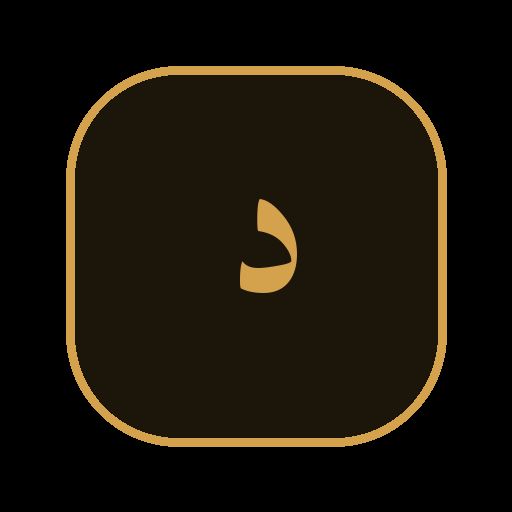
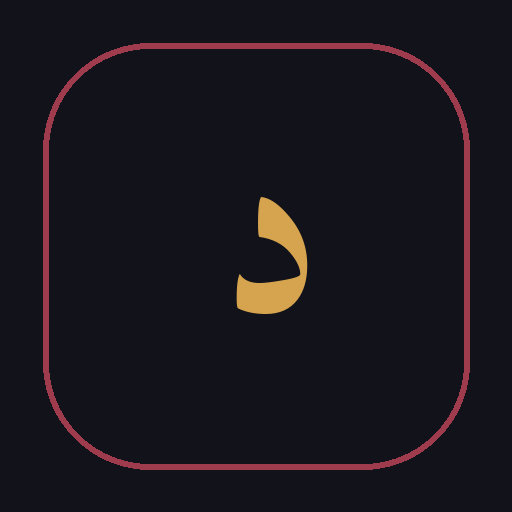
fix(darbar): PIN screen → locked shell (mirror DIWAN App Shells)
Darbar's PIN drifted from the now-locked shell. Rebuilt 1:1:
- app-icon tile 72×72 r16 #1c1c26 + garnet(#9e3b4d @user%) border, gold د glyph
- chamber name Cormorant Garamond Bold 56pt WHITE (was 30pt system gold-ish)
- tagline 'The full retinue serving the realm' Cormorant Italic gold (was absent)
- 4 PIN dots gold-outline@60%, fill garnet on entry (was a text input)
- native 3×4 keypad 68px circles, Inter 28pt, row4 _·0·⌫; AUTO-SUBMIT on 4th digit
- heritage 'HN Hotels · since 1918' moved to footer Cormorant Italic gold@50%
- DROPPED: 'enter your PIN to enter the court' line + the gold Enter button
- frame base #020205 + radial vignette + gold@18% inset border
- regenerated home-screen icon to match the tile (dark + garnet border + gold د)
Per-chamber values (Figma DIWAN master is currently empty): glyph د, accent
garnet #9e3b4d, tagline from the chamber doctrine line.

diff --git a/ops/darbar/index.html b/ops/darbar/index.html
@@ -14,7 +14,7 @@
   <link rel="icon" type="image/png" sizes="192x192" href="/ops/darbar/icon-192.png">
   <link rel="preconnect" href="https://fonts.googleapis.com">
   <link rel="preconnect" href="https://fonts.gstatic.com" crossorigin>
-  <link href="https://fonts.googleapis.com/css2?family=Cormorant+Garamond:ital,wght@1,600;1,700&display=swap" rel="stylesheet">
+  <link href="https://fonts.googleapis.com/css2?family=Cormorant+Garamond:ital,wght@0,600;0,700;1,500;1,600&family=Inter:wght@400;500;600&display=swap" rel="stylesheet">
   <style>
     :root{
       --bg:#000; --e1:#13131a; --e2:#1b1b24; --e3:#24242f;
@@ -26,6 +26,7 @@
       --yellow:#fbbf24; --yellow-soft:rgba(251,191,36,.15);
       --red:#ff5c5c; --red-soft:rgba(255,92,92,.14);
       --purple:#a78bfa; --purple-soft:rgba(167,139,250,.15);
+      --darbar:#9e3b4d; --darbar-bd:rgba(158,59,77,.5);  /* Darbar per-chamber court hue */
       --safe-top:env(safe-area-inset-top,0px); --safe-bot:env(safe-area-inset-bottom,0px);
       --tabh:74px; --navh:46px; --r:13px;
       --ease:cubic-bezier(.22,.61,.36,1); --spring:cubic-bezier(.34,1.56,.64,1);
@@ -43,22 +44,45 @@
     .num{font-variant-numeric:tabular-nums}
     .hide{display:none!important}
 
-    /* PIN gate */
-    .gate{position:fixed;inset:0;background:radial-gradient(120% 80% at 50% 0%,#1a160c 0%,#000 60%);
-      display:flex;flex-direction:column;align-items:center;justify-content:center;padding:24px;z-index:80}
-    .gate .crest{width:64px;height:64px;border-radius:18px;display:grid;place-items:center;
-      background:var(--gold-soft);border:1px solid var(--gold-bd);color:var(--gold);
-      font-family:'Cormorant Garamond',serif;font-style:italic;font-weight:700;font-size:38px;margin-bottom:18px}
-    .gate h1{font-size:30px;font-weight:800}
-    .gate .heritage{font-family:'Cormorant Garamond',serif;font-style:italic;color:var(--gold);font-size:16px;margin-top:4px}
-    .gate .help{color:var(--mute);font-size:13px;margin:14px 0 16px}
-    .pin-in{width:200px;text-align:center;font-size:26px;letter-spacing:14px;padding:14px;
-      background:var(--e2);border:1px solid var(--line);border-radius:14px;color:var(--text)}
-    .pin-in:focus{outline:none;border-color:var(--gold-bd)}
-    .pin-go{margin-top:14px;width:200px;padding:14px;border-radius:14px;background:var(--gold);
-      color:#1a1206;font-weight:700;font-size:16px;transition:transform .1s var(--ease)}
-    .pin-go:active{transform:scale(.97)}
-    .pin-err{color:var(--red);font-size:13px;margin-top:10px;height:16px}
+    /* ── PIN gate — LOCKED SHELL (mirrors DIWAN "App Shells — Locked") ── */
+    .gate{position:fixed;inset:0;z-index:80;
+      padding:calc(var(--safe-top) + 24px) 24px calc(var(--safe-bot) + 16px);
+      background:radial-gradient(120% 90% at 50% 38%, #0e0e16 0%, #020205 78%);
+      box-shadow:inset 0 0 0 1px rgba(212,162,76,.18);
+      display:flex;flex-direction:column;align-items:center;justify-content:center}
+    .gate-inner{display:flex;flex-direction:column;align-items:center;width:100%;max-width:300px;margin:auto}
+    /* 1 — app-icon tile (the name IS the logo) */
+    .pin-icon{width:72px;height:72px;border-radius:16px;display:grid;place-items:center;
+      background:#1c1c26;border:1px solid var(--darbar-bd);color:var(--gold);
+      font-family:'Cormorant Garamond',serif;font-weight:700;font-size:42px;
+      box-shadow:0 2px 12px rgba(0,0,0,.55)}
+    /* 2 — chamber name, Cormorant Bold, WHITE (gold is accent only) */
+    .pin-name{font-family:'Cormorant Garamond',serif;font-weight:700;font-style:normal;
+      font-size:56px;line-height:1;color:#f8f8fa;margin-top:18px;
+      text-shadow:0 1px 0 rgba(0,0,0,.6),0 2px 8px rgba(0,0,0,.45)}
+    /* 3 — tagline from the chamber doctrine, Cormorant Italic, gold */
+    .pin-tag{font-family:'Cormorant Garamond',serif;font-style:italic;font-weight:500;
+      font-size:15px;color:var(--gold);margin-top:7px;letter-spacing:.01em;text-align:center}
+    /* 4 — 4 PIN dots, gold outline @60%, fill chamber-accent on entry */
+    .pin-dots{display:flex;gap:16px;margin-top:34px}
+    .pin-dots span{width:12px;height:12px;border-radius:50%;background:transparent;
+      border:1.5px solid rgba(212,162,76,.6);transition:all .15s var(--ease)}
+    .pin-dots span.on{background:var(--darbar);border-color:var(--darbar);transform:scale(1.08)}
+    .pin-err{color:var(--red);font-size:12.5px;height:15px;margin-top:13px;text-align:center}
+    /* 5 — native 3×4 keypad, 68px circles, white digits 28pt Inter, row4: _ 0 ⌫ */
+    .keypad{display:grid;grid-template-columns:repeat(3,68px);gap:20px;margin-top:6px;justify-content:center}
+    .keypad button{width:68px;height:68px;border-radius:50%;background:#1c1c26;color:#f8f8fa;
+      font-family:'Inter',sans-serif;font-weight:400;font-size:28px;display:grid;place-items:center;
+      transition:transform .08s var(--ease),background .15s}
+    .keypad button:active{transform:scale(.92);background:#24242f}
+    .keypad button.del{font-size:24px;color:var(--dim)}
+    .keypad .sp{visibility:hidden}
+    /* 7 — footer heritage line, Cormorant Italic, gold @50%, bottom-safe */
+    .pin-foot{position:absolute;left:0;right:0;bottom:calc(var(--safe-bot) + 14px);text-align:center;
+      font-family:'Cormorant Garamond',serif;font-style:italic;font-size:11px;color:rgba(212,162,76,.5)}
+    .gate.shake .gate-inner{animation:shake .42s}
+    @keyframes shake{10%,90%{transform:translateX(-2px)}20%,80%{transform:translateX(4px)}
+      30%,50%,70%{transform:translateX(-7px)}40%,60%{transform:translateX(7px)}}
 
     /* App shell */
     #app{position:fixed;inset:0;display:flex;flex-direction:column;background:var(--bg)}
@@ -181,13 +205,20 @@
 
 <!-- PIN GATE -->
 <section id="gate" class="gate">
-  <div class="crest">د</div>
-  <h1>Darbar</h1>
-  <div class="heritage">HN Hotels · since 1918</div>
-  <div class="help">Enter your PIN to enter the court</div>
-  <input id="pin" class="pin-in num" type="tel" maxlength="4" inputmode="numeric" autocomplete="one-time-code" placeholder="••••">
-  <button id="pinGo" class="pin-go">Enter</button>
-  <div id="pinErr" class="pin-err"></div>
+  <div class="gate-inner">
+    <div class="pin-icon">د</div>
+    <h1 class="pin-name">Darbar</h1>
+    <div class="pin-tag">The full retinue serving the realm</div>
+    <div class="pin-dots" id="pinDots"><span></span><span></span><span></span><span></span></div>
+    <div class="pin-err" id="pinErr"></div>
+    <div class="keypad" id="keypad">
+      <button data-k="1">1</button><button data-k="2">2</button><button data-k="3">3</button>
+      <button data-k="4">4</button><button data-k="5">5</button><button data-k="6">6</button>
+      <button data-k="7">7</button><button data-k="8">8</button><button data-k="9">9</button>
+      <span class="sp"></span><button data-k="0">0</button><button data-k="del" class="del" aria-label="delete">⌫</button>
+    </div>
+  </div>
+  <div class="pin-foot">HN Hotels · since 1918</div>
 </section>
 
 <!-- APP -->

diff --git a/ops/darbar/app.js b/ops/darbar/app.js
@@ -30,22 +30,49 @@ const todayIST = () => new Date(Date.now() + 5.5 * 3600e3).toISOString().slice(0
 // HE business day = IST now shifted back 4h
 const bizDayIST = () => new Date(Date.now() + 5.5 * 3600e3 - 4 * 3600e3).toISOString().slice(0, 10);
 
-/* ━━━ PIN gate ━━━ */
-function unlock() {
-  const v = $('pin').value.trim();
-  const u = USERS[v];
-  if (!u) { $('pinErr').textContent = 'Not recognised at this court.'; return; }
-  S.pin = v; S.user = u.name; S.role = u.role; S.fin = u.fin;
-  sessionStorage.setItem('darbar_pin', v);
+/* ━━━ PIN gate — locked shell: 4 dots + 3×4 keypad, auto-submit on 4th digit ━━━ */
+let pinEntry = '';
+function renderDots() {
+  const dots = $('pinDots').children;
+  for (let i = 0; i < 4; i++) dots[i].classList.toggle('on', i < pinEntry.length);
+}
+function pinKey(k) {
+  if (k === 'del') { pinEntry = pinEntry.slice(0, -1); $('pinErr').textContent = ''; renderDots(); return; }
+  if (pinEntry.length >= 4) return;
+  pinEntry += k; renderDots();
+  if (pinEntry.length === 4) setTimeout(submitPin, 140);   // brief beat so the 4th dot shows
+}
+function submitPin() {
+  const u = USERS[pinEntry];
+  if (!u) {
+    $('gate').classList.add('shake');
+    $('pinErr').textContent = 'Not recognised at this court.';
+    setTimeout(() => { $('gate').classList.remove('shake'); pinEntry = ''; renderDots(); }, 460);
+    if (navigator.vibrate) navigator.vibrate(60);
+    return;
+  }
+  enterCourt(pinEntry, u);
+}
+function enterCourt(pin, u) {
+  S.pin = pin; S.user = u.name; S.role = u.role; S.fin = u.fin;
+  sessionStorage.setItem('darbar_pin', pin);
   $('gate').classList.add('hide');
   $('app').classList.remove('hide');
   S.attendDate = bizDayIST();
   setupNavCondense();
   loadHome();
 }
-$('pinGo').addEventListener('click', unlock);
-$('pin').addEventListener('keydown', e => { if (e.key === 'Enter') unlock(); });
-(function auto() { const p = sessionStorage.getItem('darbar_pin'); if (p && USERS[p]) { $('pin').value = p; unlock(); } })();
+$('keypad').addEventListener('click', e => {
+  const b = e.target.closest('button[data-k]');
+  if (b) pinKey(b.dataset.k);
+});
+// hardware keyboard (desktop testing) — digits + backspace
+document.addEventListener('keydown', e => {
+  if ($('gate').classList.contains('hide')) return;
+  if (/^[0-9]$/.test(e.key)) pinKey(e.key);
+  else if (e.key === 'Backspace') pinKey('del');
+});
+(function auto() { const p = sessionStorage.getItem('darbar_pin'); if (p && USERS[p]) enterCourt(p, USERS[p]); })();
 
 /* ━━━ API ━━━ */
 async function api(path) { const r = await fetch(path); return r.json(); }